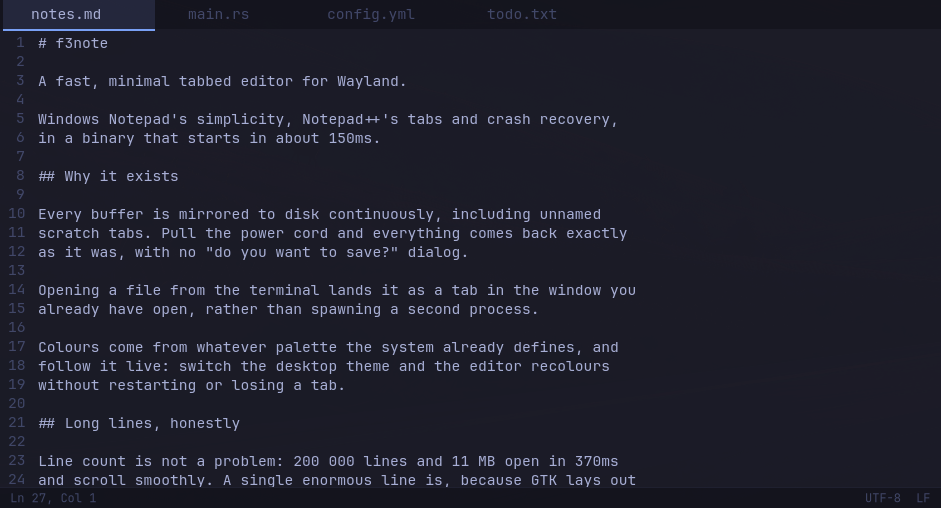
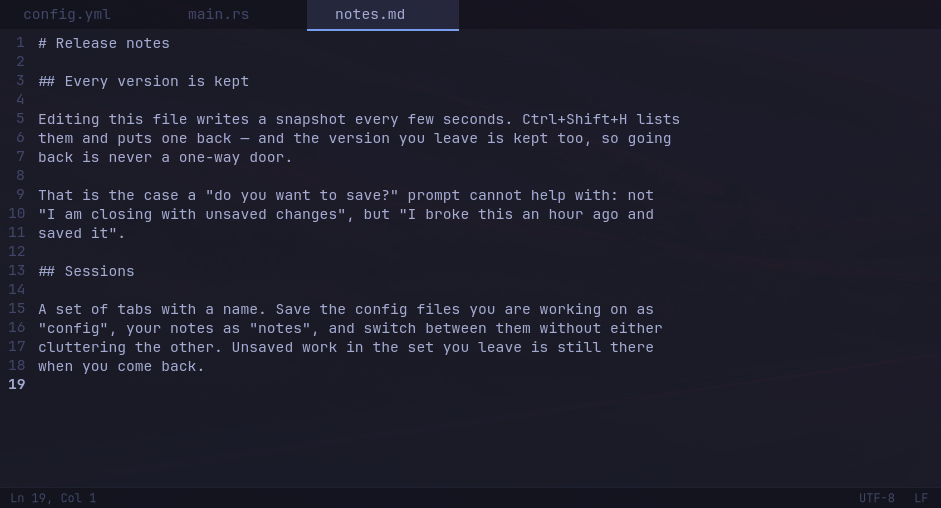
Release 1.0.0
Everything planned is in and has been validated by hand, not only by the
suite: tabs, crash recovery, version history, revert, named sessions, search
across files, line operations, theming that follows the desktop live, and
packaging for source, AUR and AppImage.

The empty sessions screen now explains what a session is. A user reached it,
found an empty list above a text box, and could not work out that the box was
how you make the first one — which is a fair reading of what was there. An
empty state has to teach rather than report.

The screenshot is retaken from a real session, and the README carries the
icon.

diff --git a/src/ui/window.rs b/src/ui/window.rs
@@ -1858,8 +1858,12 @@ impl Window {
     /// Switching sessions never loses anything: the tabs being closed are
     /// mirrored like any others, and the session you leave is saved first.
     fn open_sessions(self: &Rc<Self>) {
+        let open_count = self.docs.borrow().len();
         let entry = gtk::Entry::builder()
-            .placeholder_text("Save these tabs as…")
+            .placeholder_text(match open_count {
+                1 => "Name for this tab, then Enter".to_owned(),
+                n => format!("Name for these {n} tabs, then Enter"),
+            })
             .activates_default(true)
             .build();
 
@@ -1871,12 +1875,30 @@ impl Window {
 
         let names = crate::session::index::list_named(&self.state_root);
         if names.is_empty() {
+            // The empty state has to teach, not just report. A list saying
+            // "none" above a text box is a puzzle: a user reached this screen,
+            // saw nothing, and could not work out that the box was how you
+            // make the first one.
             let empty = gtk::Label::builder()
-                .label("No saved sessions yet")
+                .label(
+                    "A session is a set of tabs with a name.\n\n\
+                     Save the tabs you have open under a name below, then \
+                     open other files and save those under another. \
+                     Picking a name here closes what is open and brings \
+                     that set back — nothing is lost either way, unsaved \
+                     changes included.",
+                )
                 .xalign(0.0)
+                .wrap(true)
+                .max_width_chars(46)
                 .build();
             empty.add_css_class("path");
-            list.append(&gtk::ListBoxRow::builder().child(&empty).build());
+            let row = gtk::ListBoxRow::builder()
+                .child(&empty)
+                .selectable(false)
+                .activatable(false)
+                .build();
+            list.append(&row);
         }
         for name in &names {
             let label = gtk::Label::builder().label(name).xalign(0.0).build();
@@ -1914,7 +1936,14 @@ impl Window {
             .propagate_natural_height(true)
             .build();
 
-        let heading = gtk::Label::builder().label("Sessions").xalign(0.0).build();
+        let heading = gtk::Label::builder()
+            .label(if names.is_empty() {
+                "Sessions"
+            } else {
+                "Sessions — pick one to switch, or name these tabs below"
+            })
+            .xalign(0.0)
+            .build();
         heading.add_css_class("path");
         let layout = gtk::Box::builder()
             .orientation(gtk::Orientation::Vertical)

diff --git a/CHANGELOG.md b/CHANGELOG.md
@@ -1,0 +1,55 @@
+# Changelog
+
+## 1.0.0
+
+First release.
+
+### Your work
+
+- Every buffer is mirrored to disk continuously, including untitled tabs.
+  Losing power costs at most a few seconds of typing, and nothing is asked on
+  closing because there is nothing to ask about.
+- Earlier versions of each document are kept and can be restored
+  (`Ctrl+Shift+H`), which covers the case a save prompt cannot: realising an
+  hour later that something was broken and already saved.
+- Unsaved changes can be discarded and the file reloaded (`Ctrl+Shift+R`).
+- `Ctrl+Shift+W` closes a tab and deletes everything stored about it, for
+  scratch tabs whose contents should not outlive them.
+
+### Tabs and files
+
+- Tabs with `Ctrl+T`/`Ctrl+W`, `Alt+1`..`Alt+9`, `Ctrl+Tab` in
+  most-recently-used order, and `Ctrl+P` to jump by typing — which also
+  reopens recent files.
+- Named sessions (`Ctrl+Shift+E`): save sets of tabs and switch between them
+  without losing unsaved work in either.
+- One window. Opening a file from a terminal lands it as a tab in the window
+  you already have, with or without a session bus.
+- Files can be dropped on the window.
+- Encoding is detected rather than guessed from a fixed list, and line endings
+  are preserved. Both are shown in the status bar and can be changed there.
+
+### Editing
+
+- Inline find and replace, go to line, and search across the open tabs and the
+  current folder (`Ctrl+Shift+F`).
+- Duplicate (`Ctrl+D`), move (`Alt+Up`/`Alt+Down`) and comment (`Ctrl+/`)
+  lines. Each is one undo step.
+- Zoom with `Ctrl+Scroll`.
+
+### Appearance
+
+- Follows the system palette, live: changing the desktop theme recolours the
+  editor without restarting or losing a tab. Falls back to dark rather than
+  light when the desktop gives no clear answer.
+- Optional transparency for compositors with a blur rule.
+- Syntax highlighting, off by default.
+
+### Known limits
+
+- A single very long line — minified CSS, one-line JSON — makes the cursor
+  stutter, because GTK lays out a whole logical line at once. Such files open
+  with wrapping and highlighting off and say so. Line *count* is not a
+  problem: 200 000 lines open in 370ms.
+- No split view, multiple cursors, plugins or LSP, by choice.
+- Linux and Wayland only.

diff --git a/README.md b/README.md
@@ -1,3 +1,5 @@
+<img src="docs/images/icon.png" width="96" align="right" alt="">
+
 # f3note
 
 A fast, minimal tabbed text editor for Wayland. Windows Notepad's simplicity,
